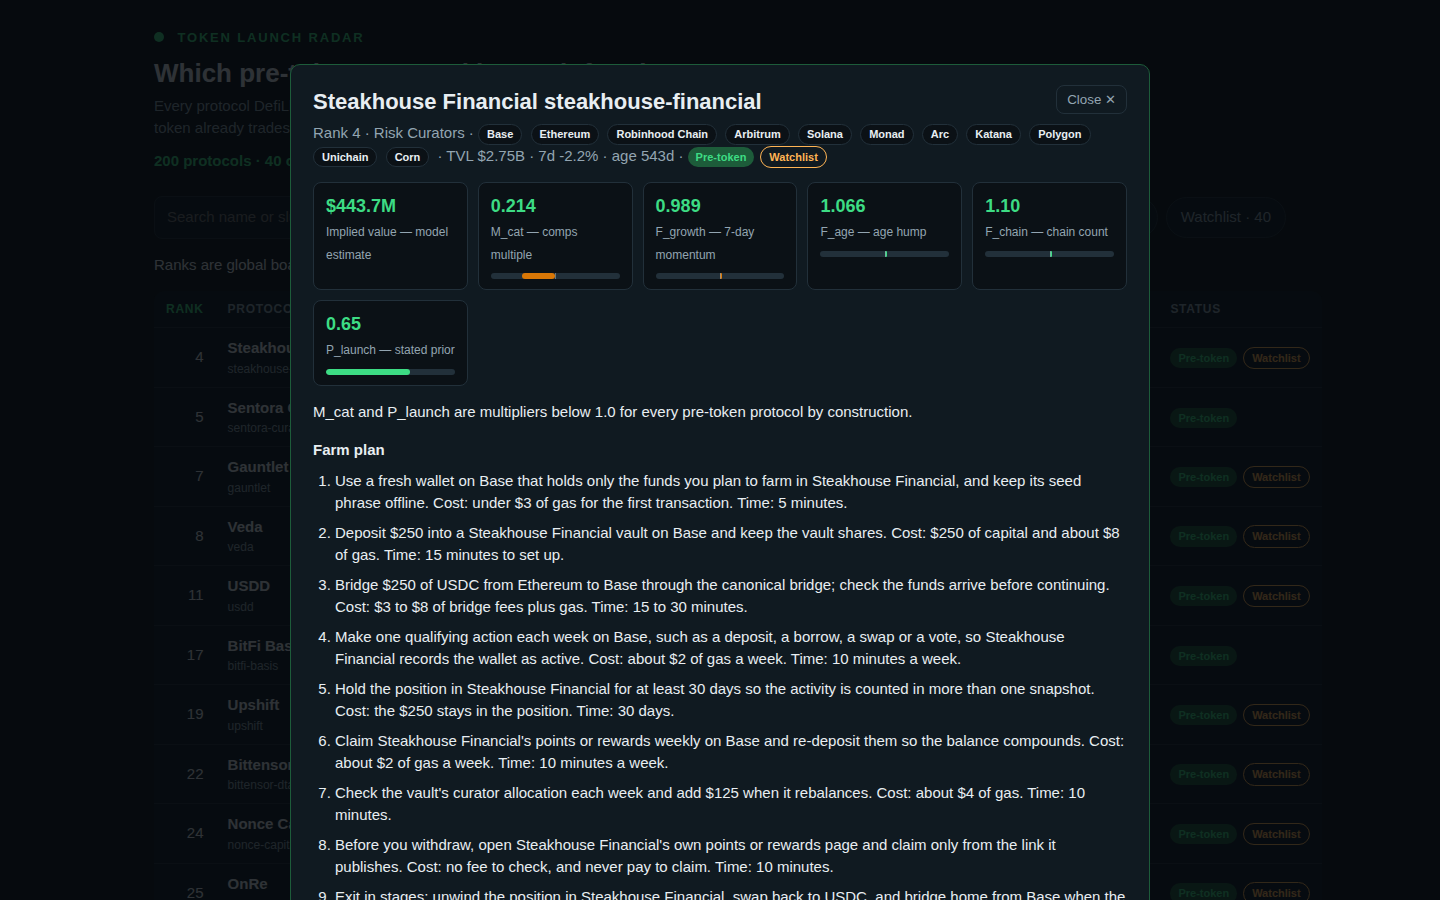
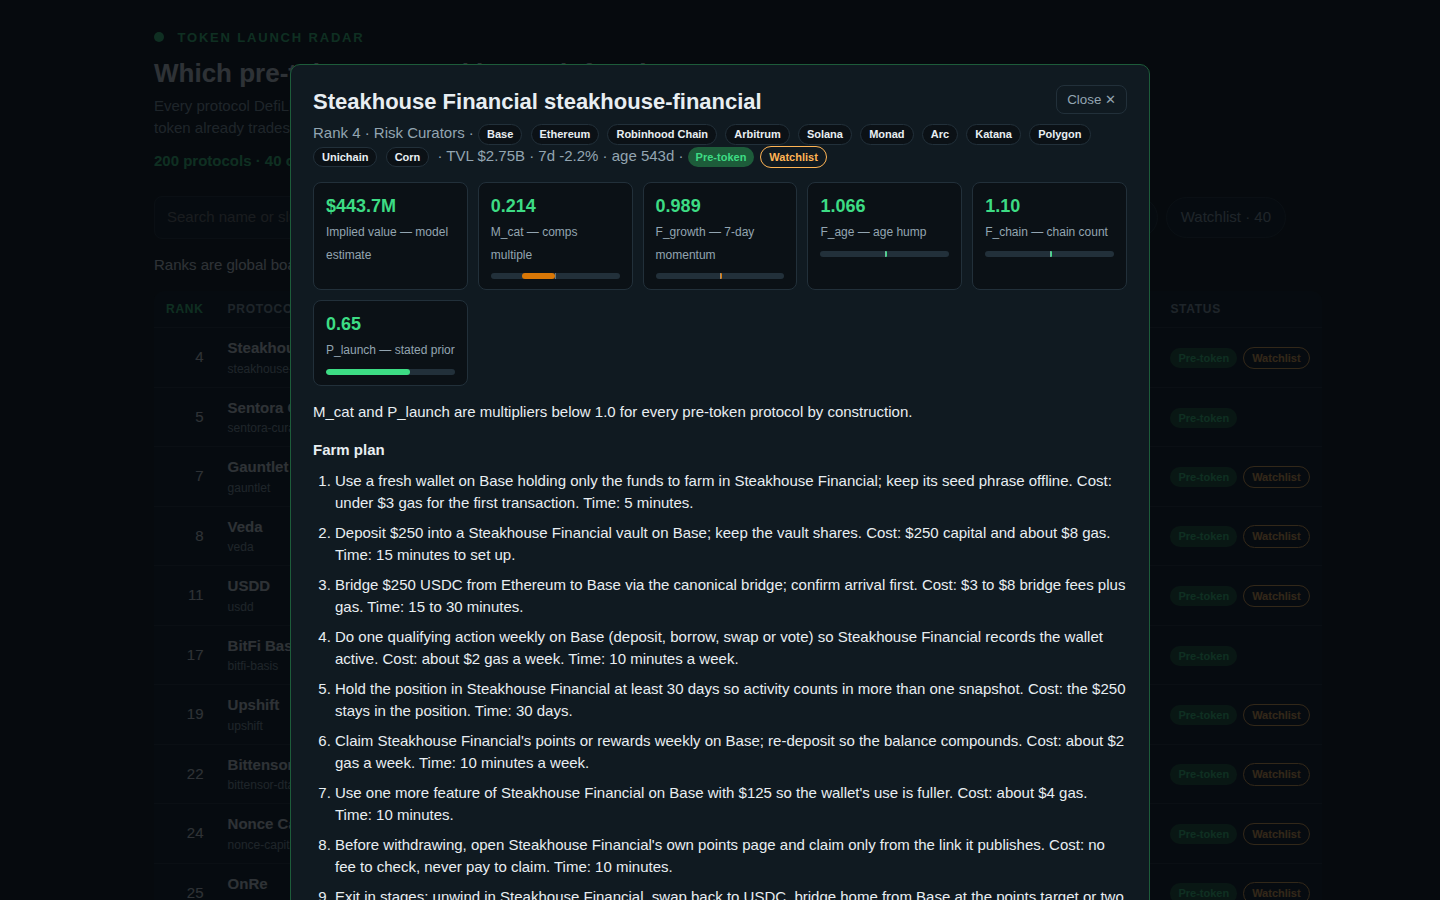
Round 7: farm plan computed in-page (no board.json fetch)

Changed region(s): [[0.2188, 0.5289, 0.7812, 0.8089], [0.2188, 0.84, 0.7812, 1.0], [0.5312, 0.8089, 0.7812, 0.84]]

diff --git a/dashboard/app.js b/dashboard/app.js
@@ -142,6 +142,55 @@ function factorCard(label, value, note, num, fill) {
   return `<div class="factor"><b>${value}</b><span>${label} — ${note}</span>${bar}</div>`;
 }
 
+// Farm plan computed in-page from the embedded row (no fetch); same actions/costs/times as the model, worded tighter for the text cap.
+// --- compact port v3 (golfed) ---
+const F = 'dex:dex,swap:dex,lend:lending,yield aggregator:yield,yield:yield,curator:curator,allocator:curator,rwa:rwa,basis:basis,cdp:cdp,collateral:cdp,derivative:derivatives,perpetual:derivatives,options:derivatives,chain:chain,staking pool:staking,staking:staking,locker:locker,lock:locker,prediction:prediction,stable:stable,insurance:insurance,bridge:bridge'.split(',').map((p) => p.split(':'));
+const fam = (c) => { const f = F.find(([s]) => (c || '').toLowerCase().includes(s)); return f ? f[1] : 'generic'; };
+const M = {
+  dex: 'Swap $c USDC into the pair on $n; provide $c liquidity on $h.',
+  lending: 'Supply $c USDC to $n on $h; keep the deposit earning.',
+  yield: 'Deposit $c USDC into the $n vault on $h; let it compound.',
+  curator: 'Deposit $c into a $n vault on $h; keep the vault shares.',
+  rwa: 'Mint $c of the yield asset through $n on $h; hold it.',
+  basis: 'Deposit $c USDC into $n\'s basis strategy on $h; keep the position.',
+  cdp: 'Lock $c collateral in $n on $h; mint against it at low leverage.',
+  derivatives: 'Deposit $c USDC as margin on $n; open one small hedged position.',
+  chain: 'Move $c USDC onto $h through $n; use it in the chain\'s apps.',
+  staking: 'Stake $c of the staking asset through $n; keep the receipt token.',
+  locker: 'Lock $c of tokens in $n on $h; keep the lock receipt.',
+  prediction: 'Fund $c on $n; place one market position on $h.',
+  stable: 'Mint or deposit $c of the stable asset through $n on $h.',
+  insurance: 'Buy $c of cover from $n on $h; keep the policy active.',
+  bridge: 'Bridge $c USDC through $n to $h; use the bridged funds there.',
+  generic: 'Deposit $c USDC into $n on $h; keep the position open.',
+};
+const G = 'Use one more feature of $n on $h with $h2 so the wallet\'s use is fuller.';
+const sub = (t, n, c, h) => t.replaceAll('$h2', '$' + Math.round(c / 2)).replaceAll('$c', '$' + c).replaceAll('$n', n).replaceAll('$h', h);
+const st = (s) => { let x = `${s.t} Cost: ${s.c}. Time: ${s.m}.`; if (x.length > 600) x = `${x.slice(0, 596)}...`; if (x.length < 20) x = `${x} Hold the position and check the protocol's own page.`; return x; };
+function farmPort(n, cat, ch, tvl, age) {
+  const h = ch ? ch.split(',')[0] : 'its main chain';
+  const c = tvl >= 5e8 ? 250 : tvl >= 1e8 ? 100 : 50;
+  const hold = age == null ? 30 : age < 180 ? 60 : age < 365 ? 45 : 30;
+  const f = fam(cat), g = c >= 250 ? 8 : c >= 100 ? 5 : 3;
+  const s = [
+    { t: `Use a fresh wallet on ${h} holding only the funds to farm in ${n}; keep its seed phrase offline.`, c: 'under $3 gas for the first transaction', m: '5 minutes' },
+    { t: sub(M[f], n, c, h), c: `$${c} capital and about $${g} gas`, m: '15 minutes to set up' },
+  ];
+  if (h !== 'Ethereum') s.push({ t: `Bridge $${c} USDC from Ethereum to ${h} via the canonical bridge; confirm arrival first.`, c: '$3 to $8 bridge fees plus gas', m: '15 to 30 minutes' });
+  else s.push({ t: sub(G, n, c, h), c: `about $${Math.max(2, Math.round(g / 2))} gas`, m: '10 minutes' });
+  s.push(
+    { t: `Do one qualifying action weekly on ${h} (deposit, borrow, swap or vote) so ${n} records the wallet active.`, c: 'about $2 gas a week', m: '10 minutes a week' },
+    { t: `Hold the position in ${n} at least ${hold} days so activity counts in more than one snapshot.`, c: `the $${c} stays in the position`, m: `${hold} days` },
+  );
+  if (tvl >= 1e8) s.push({ t: `Claim ${n}'s points or rewards weekly on ${h}; re-deposit so the balance compounds.`, c: 'about $2 gas a week', m: '10 minutes a week' });
+  if (tvl >= 5e8) s.push({ t: sub(G, n, c, h), c: `about $${Math.max(2, Math.round(g / 2))} gas`, m: '10 minutes' });
+  s.push(
+    { t: `Before withdrawing, open ${n}'s own points page and claim only from the link it publishes.`, c: 'no fee to check, never pay to claim', m: '10 minutes' },
+    { t: `Exit in stages: unwind in ${n}, swap back to USDC, bridge home from ${h} at the points target or two weeks before launch. Log every transaction.`, c: '$8 to $15 to exit', m: '30 minutes' },
+  );
+  return s.map(st);
+}
+
 function showDetail(slug) {
   const r = BOARD.find((x) => x.slug === slug);
   if (!r) return;
@@ -162,24 +211,11 @@ function showDetail(slug) {
     ${r.status === 'trading' ? '' : '<p class="fine">M_cat and P_launch are multipliers below 1.0 for every pre-token protocol by construction.</p>'}
     ${r.status === 'trading' ? '<p class="fine">This protocol already trades: its implied value is the observed market cap. The comps factors do not apply.</p>' : ''}
     <h3>Farm plan</h3>
-    <ol id="farm"><li>Loading the farm plan from board.json…</li></ol>
+    <ol id="farm">${farmPort(r.name, r.category, r.chains, r.tvl_usd, r.age_days).map((s) => `<li>${esc(s)}</li>`).join('')}</ol>
     <p class="fine">A protocol records no token until its record says otherwise. Values are the entry's own claim, never a promise a token launches.</p>
   </div>`;
   detailEl.hidden = false;
   $('dx').addEventListener('click', hideDetail);
-  fetch('../board.json').then((res) => res.json()).then((doc) => {
-    const row = (doc.rows || doc).find((x) => x.slug === slug);
-    const ol = $('farm');
-    if (!ol) return;
-    if (row && row.farm_steps) {
-      ol.innerHTML = row.farm_steps.map((s) => `<li>${esc(s)}</li>`).join('');
-    } else {
-      ol.innerHTML = '<li>The full farm plan for this protocol is in board.json (rank ' + r.rank + ').</li>';
-    }
-  }).catch(() => {
-    const ol = $('farm');
-    if (ol) ol.innerHTML = '<li>The full farm plan for this protocol is in board.json (rank ' + r.rank + ').</li>';
-  });
   writeHash();
 }
 

diff --git a/dashboard/index.html b/dashboard/index.html
@@ -63,7 +63,7 @@
     <li><strong>F<sub>chain</sub></strong> — 1.00 for one chain, 1.05 for two or three, 1.10 for four or more.</li>
     <li><strong>P<sub>launch</sub></strong> — a stated prior, not an observation: 0.65 for watchlist-eligible protocols, 0.50 for other pre-token ones.</li>
   </ul>
-  <p>Pre-token means all three token fields are null (market cap, CoinGecko id, symbol). The board holds 200 rows: the whole 40-protocol watchlist plus the 160 highest-valued others outside bridges, staked products and exchanges. Each row carries a farm plan with concrete costs and times.</p>
+  <p>Pre-token means all three token fields are null (market cap, CoinGecko id, symbol). The board holds 200 rows: the whole 40-protocol watchlist plus the 160 highest-valued others outside bridges, staked products and exchanges. Each row carries a farm plan with concrete costs and times, computed in-page from the board data.</p>
   <p class="fine">Snapshot: DefiLlama protocols at or above $5,000,000 TVL, fetched <span id="snapDate">2026-11-14</span>. Model <span id="snapModel">radar-v2-comps</span>. The program runs twice and writes identical bytes; nothing here fetches the network.</p>
 </section>
 
